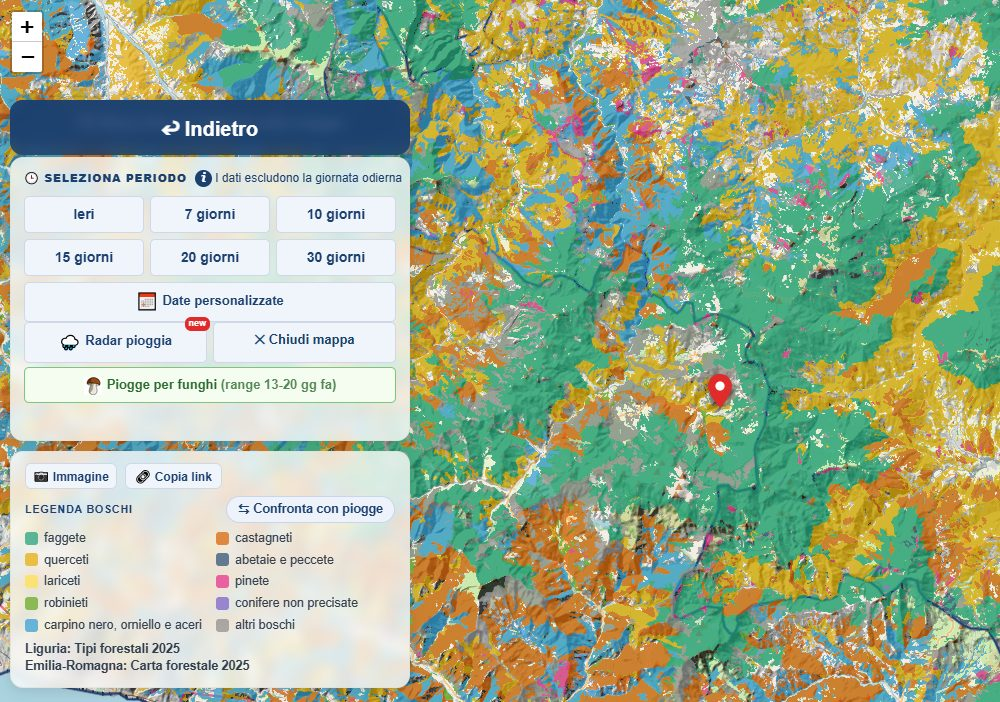
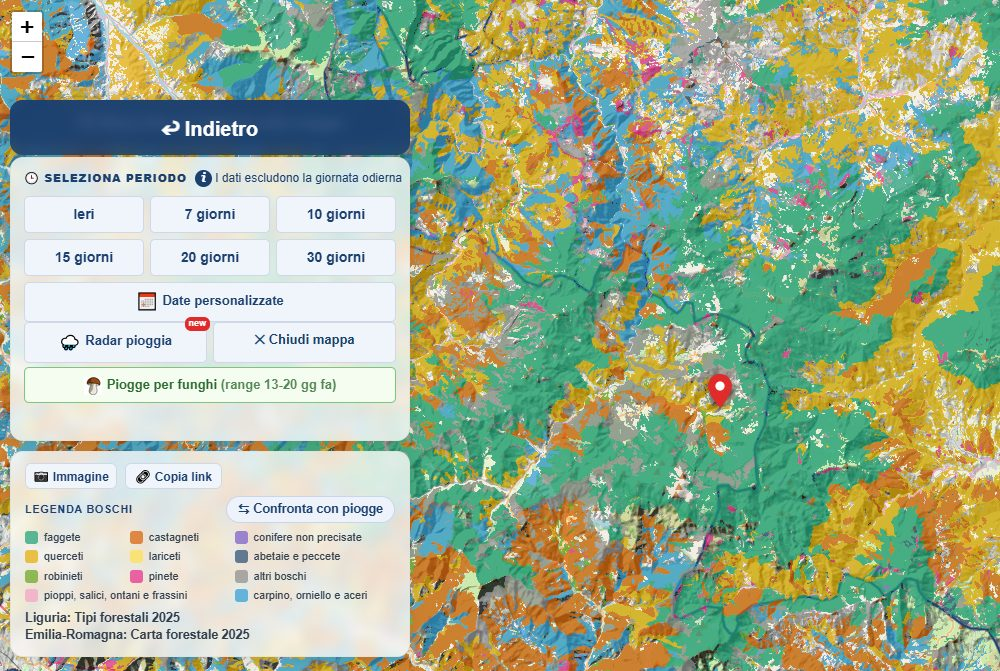
Guida allineata a prod: coordinate, ultimi aggiornamenti del 26/9, foto boschi con la legenda nuova

diff --git a/guida/index.html b/guida/index.html
@@ -257,8 +257,10 @@ td:first-child{font-weight:600;color:#2c3e54;white-space:nowrap}
      Si tengono le ultime otto o nove e si aggiorna la data del titolo. -->
 <div class="upd">
   <div class="tit"><span class="tag">NOVITÀ</span><b>Ultimi aggiornamenti</b>
-    <span class="quando">24 settembre 2026</span></div>
+    <span class="quando">26 settembre 2026</span></div>
   <ul>
+    <li><span class="data">26 set</span><span><a href="#boschi">Pioppi, salici, ontani e frassini</a>: nella mappa boschi un colore nuovo per i boschi lungo fiumi e torrenti, in tutta Italia.</span></li>
+    <li><span class="data">26 set</span><span><a href="#dove">Cerca con le coordinate</a>: nella casella di ricerca scrivi il punto del GPS o incolla un link di Google Maps.</span></li>
     <li><span class="data">24 set</span><span><a href="#boschi">Tocca un punto nella mappa boschi</a>: che bosco c'è, quota, versante e pendenza, e lo apri su Google Maps. E sotto i colori, il rilievo di monti e valli.</span></li>
     <li><span class="data">19 set</span><span><a href="#boschi">La mappa boschi in tutta Italia</a>: ventuno regioni, e un tocco su un punto ti dice che bosco è.</span></li>
     <li><span class="data">19 set</span><span><a href="#boschi">Confronta pioggia e boschi</a>: trascini la barra, a sinistra dove ha piovuto e a destra che bosco c'è.</span></li>
@@ -266,8 +268,6 @@ td:first-child{font-weight:600;color:#2c3e54;white-space:nowrap}
     <li><span class="data">16 set</span><span><a href="#boschi">La mappa boschi</a>: faggete, castagneti, querceti e abetaie colorati sulla mappa, per ora in nove regioni.</span></li>
     <li><span class="data">13 set</span><span><a href="#misure">Durata e punta nella scheda del pluviometro</a>: tocca una barra del grafico e vedi in quante ore è caduta la pioggia di quel giorno.</span></li>
     <li><span class="data">13 set</span><span><a href="#pagine">Dove ha piovuto, zona per zona</a>: la pioggia di ieri, degli ultimi 7 e 30 giorni in Garfagnana, Val Trebbia, Sila e altre centoundici zone.</span></li>
-    <li><span class="data">12 set</span><span><a href="#misure">Quanto forte è piovuto</a>: per ogni giornata di pioggia forte, in quante ore è caduta e la punta in un'ora.</span></li>
-    <li><span class="data">9 set</span><span><a href="#pagine">Il nuovo indice «Piogge per funghi»</a>, con la classifica delle località più bagnate d'Italia.</span></li>
   </ul>
 </div>
 
@@ -317,6 +317,7 @@ td:first-child{font-weight:600;color:#2c3e54;white-space:nowrap}
 
 <h3>La casella «Cerca località»</h3>
 <p>Scrivi il nome del paese, della frazione o del rifugio e scegli dalla tendina: la mappa ci va e accende da sola la regione giusta. Servono <b>almeno tre lettere</b>, perché con due i nomi possibili sono centinaia. Funziona anche con le località di Svizzera, Austria, Francia e Slovenia.</p>
+<p>Nella stessa casella puoi scrivere delle <b>coordinate</b>, come te le dà il GPS o un amico: <span class="ui">45.4642, 9.1900</span>, anche con la virgola (<span class="ui">45,4642 9,19</span>), in gradi e primi (<span class="ui">45°27'51"N 9°11'24"E</span>), oppure incollando un link di Google Maps. La mappa va in quel punto e ci mette il segnaposto.</p>
 
 <h3>«La mia posizione»</h3>
 <p>Solo dal telefono, dove ha senso. Tocchi il tasto, il telefono chiede il permesso e, <b>se il GPS lo consente, la mappa ti porta dove sei</b> con la regione già accesa. Se il permesso è stato negato il tasto te lo dice, e si riattiva dalle impostazioni del telefono per questo sito.</p>
